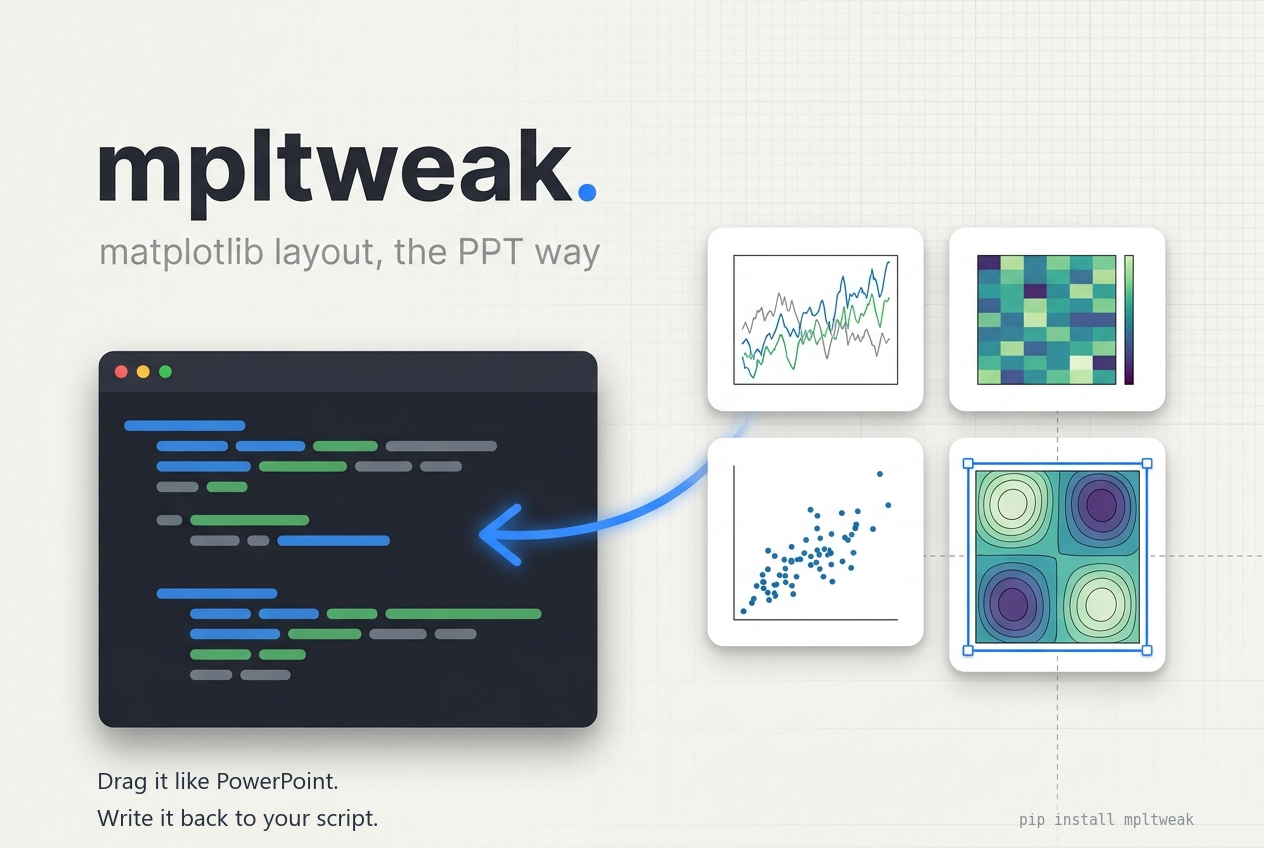
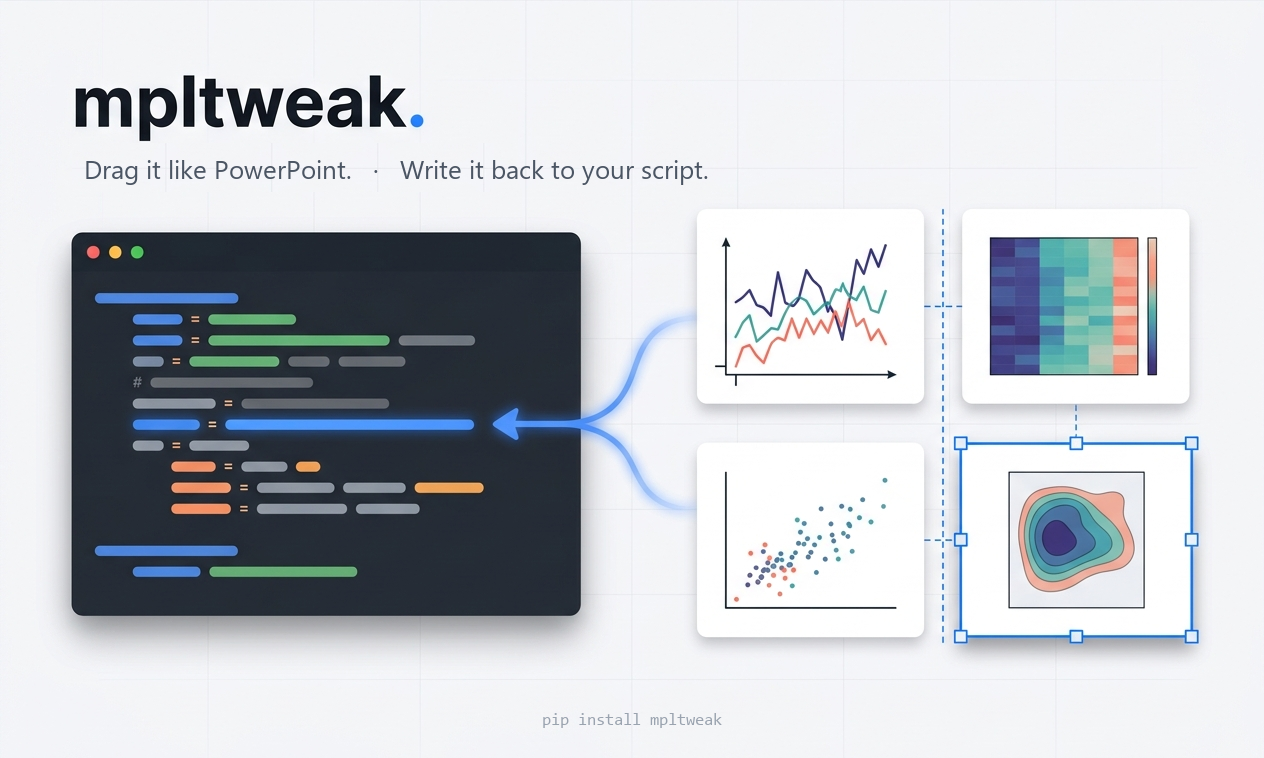
docs: rewrite README (zh default + EN), real flow diagram, final cover; add PyPI trusted-publishing workflow

diff --git a/README.en.md b/README.en.md
@@ -1,0 +1,206 @@
+<div align="center">
+
+<img src="docs/banner.png" width="820" alt="mpltweak — matplotlib layout, the PPT way">
+
+# mpltweak
+
+**Lay out matplotlib like a slide deck — then write it back into your code.**
+
+[![PyPI](https://img.shields.io/badge/pypi-mpltweak-blue)](https://pypi.org/project/mpltweak/)
+[![License](https://img.shields.io/badge/license-MIT-green)](LICENSE)
+[![Python](https://img.shields.io/badge/python-3.9%2B-blue)]()
+
+`pip install mpltweak` · matplotlib only (a Qt or Tk backend is needed for the window)
+
+**English** · [中文](README.md)
+
+</div>
+
+---
+
+## Layout is something you see, not something you guess
+
+Drag, align, snap — put the panels where they belong, on the real figure. Close the window and
+the numbers land in `.tweak_params/`.
+
+One `mpltweak apply --write` finds those exact numbers via the AST and **rewrites them in place** —
+no scaffolding inserted. Backup, headless re-run, semantic comparison: if any step fails it rolls
+back. **It never leaves a broken script behind.**
+
+No imports, no hooks, no residue. Your source code never knows it was there.
+
+```
+              ┌────────────────────────┐
+              │        fig1.py         │   plain matplotlib
+              │  fig.add_axes([...])   │   untouched
+              └───────────┬────────────┘
+                          │  mpltweak fig1.py
+                          ▼
+              ┌────────────────────────┐
+              │      live window       │   drag · align · snap · font size
+              │                        │   in-memory only
+              └───────────┬────────────┘
+                          │  close the window
+                          ▼
+              ┌────────────────────────┐
+              │  .tweak_params/        │   params saved silently (public JSON spec)
+              │      fig1.json         │   not a single character of code changed
+              └───────────┬────────────┘
+                          │  mpltweak apply fig1.py --write
+                          ▼
+              ┌────────────────────────┐
+              │  AST lookup → rewrite  │   only the numbers already in your code
+              └───────────┬────────────┘
+                          │  three-layer verification
+              ┌───────────┴────────────┐
+              ▼                        ▼
+     ┌──────────────────┐     ┌──────────────────┐
+     │      passed       │     │      failed       │
+     │  commit + backup  │     │   auto rollback   │
+     └──────────────────┘     └──────────────────┘
+```
+
+The last step looks like this (real output, real diff):
+
+<img src="docs/gifs/05_writeback.gif" width="760" alt="Write-back loop: real apply --write output and code diff">
+
+---
+
+## Demos
+
+<table>
+<tr>
+<td width="50%"><img src="docs/gifs/01_drag_layout.gif" alt="Dragging with snap guides"><br>
+<b>Drag + edge snapping</b><br>Ghost preview and alignment guides while dragging; it clicks into place near a target</td>
+<td width="50%"><img src="docs/gifs/02_multi_align.gif" alt="Multi-select align + distribute"><br>
+<b>Align / distribute</b><br>Ctrl-select three panels → one keystroke to left-align and distribute evenly</td>
+</tr>
+<tr>
+<td><img src="docs/gifs/03_fontsize.gif" alt="Hover to resize text"><br>
+<b>Hover to resize text</b><br>Hover a title, axis label, tick label or legend and press <code>+</code> / <code>-</code></td>
+<td><img src="docs/gifs/04_wireframe.gif" alt="cartopy wireframe mode"><br>
+<b>Wireframe mode (space)</b><br>Full cartopy redraw <b>494ms → 169ms</b> — layout stops stuttering</td>
+</tr>
+</table>
+
+---
+
+## Install
+
+```bash
+pip install mpltweak            # core (write-back / doctor, no window needed)
+pip install "mpltweak[qt]"      # with the PyQt5 window (recommended on Windows / Linux)
+```
+
+Check your environment:
+
+```bash
+mpltweak doctor     # Python / matplotlib version, available backends, fonts
+```
+
+> `matplotlib.use('Agg')` in your script (common in batch plotting) **does not need changing** —
+> the launcher takes over the backend temporarily and `savefig` output stays identical.
+
+---
+
+## Keys
+
+| Action | Effect |
+|---|---|
+| Drag a panel / drag an edge or corner | Move / PowerPoint-style resize (opposite edge pinned; aspect-locked axes scale uniformly) |
+| **Ctrl+click** (or Shift+click) | Add / remove from selection; drag on empty space for rubber-band select |
+| **Ctrl+Shift+L/R/T/B/C/M** | Align left / right / top / bottom / centre horizontally / centre vertically |
+| **Ctrl+Shift+H / V** | Distribute horizontally / vertically (ends fixed, equal gaps) |
+| **Ctrl+Z** / **Ctrl+Y** (or Ctrl+Shift+Z) | Undo / redo |
+| Hover text, then `+` / `-` | Font size of title, axis label, ticks, legend, colorbar |
+| **Space** | Wireframe mode (borders and text only, data artists hidden) |
+| **Ctrl+F** | Fit the canvas to its content (trim the white margin; panels keep their pixel size) |
+| **Arrow keys** / Shift+arrows | Move the panel (PPT muscle memory) / fine-tune size around its centre |
+| Drag a colorbar's long edge / thin side / middle | Length / thickness / move the whole bar |
+| Drag the legend | Preview of 8 standard spots, snaps on release |
+| `[` `]` · `c` · `C` · `g` · `s` · `x` `y` | Line width / line colour / colormap / grid / spines / linear-log axes |
+| `n` · `e` · `?` | Snapping toggle / manual export / help |
+| Drag the window edge | Change the canvas size (written back as `figsize`) |
+
+---
+
+## Three-layer verification
+
+`--write` never edits blindly, and every step is reversible:
+
+1. **It runs** — the script is re-run headlessly with Agg; a non-zero exit rolls back immediately.
+2. **It did the right thing** — the target figure's state is dumped and compared field by field
+   against the params (position / font size / grid / spines / clim). "Runs, but the layout never
+   reached the target figure" counts as a failure.
+3. **Retry with another anchor** — the `savefig` matching that figure index → main anchor → end of
+   script; only when all of them fail does it roll back.
+
+The backup lives in `.tweak_params/<script>.tweak.bak` (never scattered into your source tree),
+and a slow script that times out is not treated as a failure — you are simply told to confirm.
+
+---
+
+## `.tweak_params/*.json` spec (version 3)
+
+The params file is a **public format** — edit it by hand, or let an AI / agent generate it, and
+`--write` will still apply it:
+
+```jsonc
+{
+  "version": 3,
+  "script": "fig1.py",
+  "figsize_px": [1500, 700],             // canvas in logical pixels (null if never resized)
+  "figsize_in": [15.0, 7.0],             // inches written back to figsize
+  "axes": [
+    {
+      "index": 0,                        // = order in fig.axes
+      "pos": [0.048, 0.655, 0.30, 0.215],  // [x0, y0, w, h], figure-normalised
+      "aspect_locked": false,
+      "title_fontsize": 9.0,
+      "label_fontsize": 8.0,
+      "tick_fontsize": 8.0,
+      "grid": false,
+      "spines": { "top": false, "right": false },
+      "xscale": "linear",
+      "yscale": "linear",
+      "is_colorbar": false,
+      "clim": [-2.0, 2.0],
+      "cmap": "RdBu_r",
+      "lines": [ { "index": 0, "linewidth": 1.2, "color": "#0F4D92" } ],
+      "legend": { "loc": "upper right", "fontsize": 8.0 }
+    }
+  ]
+}
+```
+
+---
+
+## Development
+
+```bash
+git clone https://github.com/shdbl/mpltweak && cd mpltweak
+pip install -e .
+python tests/test_tweak.py       # interactive core
+python tests/test_events.py      # event paths
+python tests/test_redo.py        # undo / redo
+python tests/test_writeback.py   # AST write-back + three-layer verification
+python tools/crosscheck.py       # environment / API compatibility check
+```
+
+```
+src/mpltweak/
+├── cli.py          # mpltweak <script> | apply | doctor
+├── launch.py       # run the script → attach windows → save params on close
+├── toolbox.py      # interactive core (the Tweak controller, pure matplotlib events)
+├── params.py       # params JSON spec (version 3)
+├── apply.py        # change list / write-back entry point
+├── writeback.py    # AST lookup + in-place / block write-back
+└── verify.py       # semantic verification (re-run, compare field by field)
+```
+
+`toolbox.py` also works as an **embedded API** (`from mpltweak.toolbox import gaitu`),
+but the CLI is the intended interface — your scripts should never mention this tool.
+
+## License
+
+MIT
